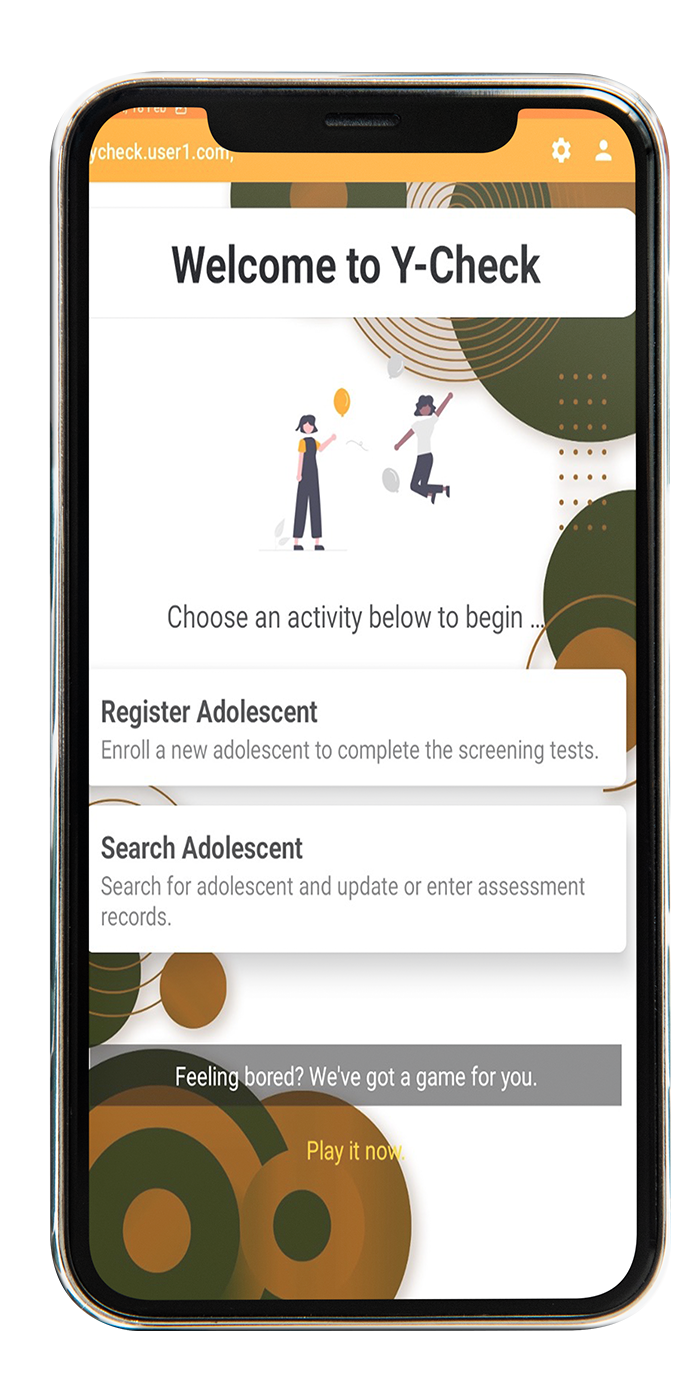
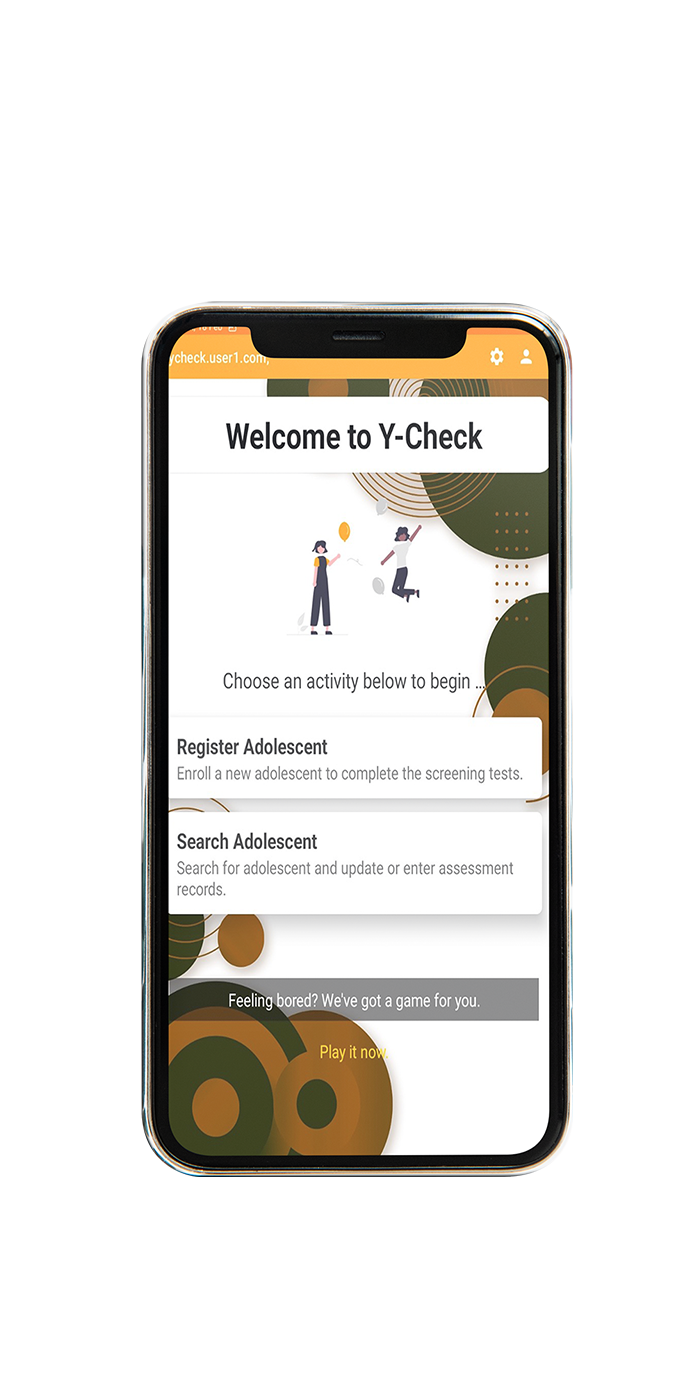
image compress and responsiveness fixed

diff --git a/web/src/pages/HomePage/home.scss b/web/src/pages/HomePage/home.scss
@@ -16,6 +16,7 @@ a {
 }
 
 
+
 dfn {
     font-style: italic
 }
@@ -1228,10 +1229,11 @@ button,select,textarea,label {
 
 .body-wrap {
     background: #06101F;
+    overflow: hidden;
     display: flex;
     font-family: "Helvetica", "Arial", sans-serif;
     flex-direction: column;
-    min-height: 100vh;
+    min-height: 100vh
 }
 
 .boxed-container {
@@ -1435,6 +1437,25 @@ main {
     flex-wrap: wrap;
     margin-top: -150px;
 }
+
+@media(max-width:760px){
+    .device-mockup{
+        width: 300px;
+        margin-top: 20px;
+    }
+}
+@media(max-width:760px){
+    .device-mockup{
+        width: 250px;
+        margin-top: 50px;
+    }
+}
+@media(max-width:680px){
+    .device-mockup{
+        width: 220px;
+        margin-top: 100px;
+    }
+}
 @media(max-width:650px){
     .box{
         flex-grow: 0.7;
@@ -1444,6 +1465,26 @@ main {
     }
     .feature-inner{
         margin-left: 30px;
+        margin-right: 30px;
+    }
+    .device-mockup{
+        margin-top: 150px;
+    }
+    .hero-title{
+        color: white;
+    }
+    .row-icon{
+        margin-top: 10px;
+    }
+    .text-sm{
+        margin-top: 10px;
     }
 }
 
+@media(max-width:640px){
+    .device-mockup{
+        margin-top: -100px;
+        width: 350px;
+
+    }
+}
